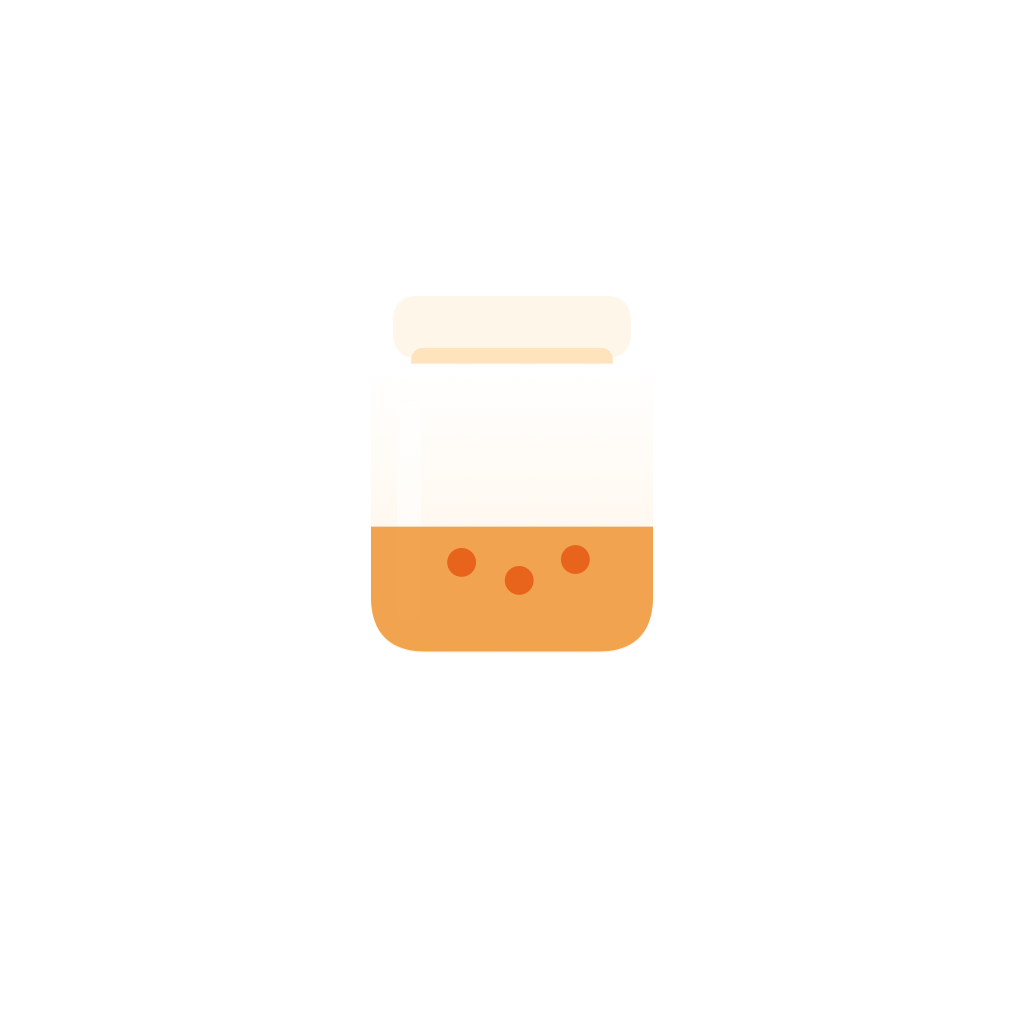
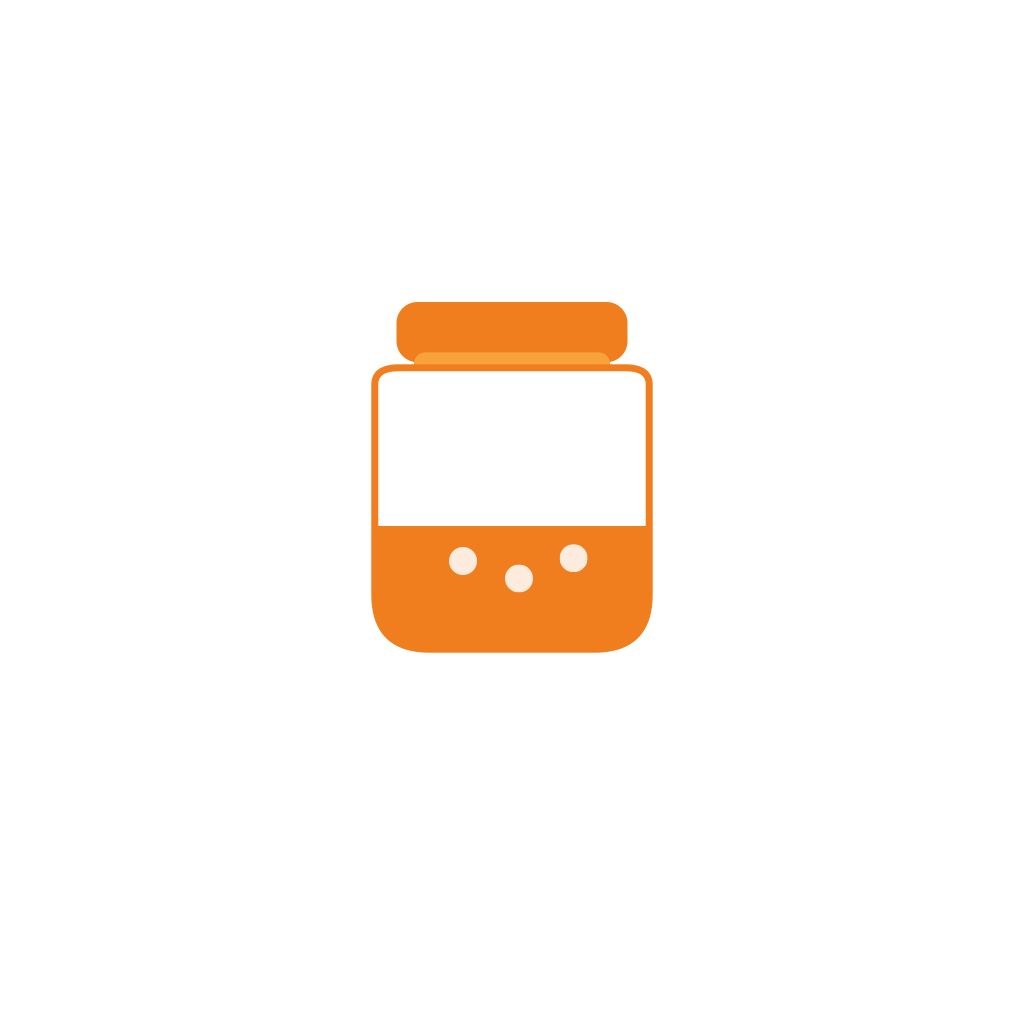
Fix crash Android (play-services-auth) + icona sfondo scuro
Causa crash all'avvio (riprodotto in emulatore): NoClassDefFoundError su
GoogleSignIn perché il plugin includeva play-services-auth solo con
rgcfaIncludeGoogle=true (ora impostato in android/variables.gradle).
Icona ridisegnata: sfondo scuro + barattolo arancione (ben visibile).
Config nativa documentata in CAPACITOR.md (le cartelle android/ios sono gitignored).

Changed region(s): [[0.3438, 0.2812, 0.6562, 0.6562]]

diff --git a/CAPACITOR.md b/CAPACITOR.md
@@ -58,6 +58,23 @@ Poi **scarica `google-services.json`** e mettilo in `android/app/google-services
 Poi **scarica `GoogleService-Info.plist`** e, in Xcode, trascinalo dentro
 `ios/App/App/` (spunta *Copy items if needed*).
 
+## ⚠ CONFIG NATIVA GIÀ APPLICATA (se rigeneri android/ ios/, riapplicala!)
+
+Queste modifiche sono in `android/` e `ios/` (che sono in `.gitignore`). Se
+cancelli/rigeneri le cartelle native, vanno rifatte o l'app **crasha**:
+
+- **`android/variables.gradle`** → dentro `ext { }` aggiungi:
+  ```gradle
+  rgcfaIncludeGoogle = true
+  ```
+  Senza questa riga il plugin NON include `play-services-auth` e l'app crasha
+  all'avvio con `NoClassDefFoundError: ...GoogleSignIn`.
+- **`android/app/google-services.json`** → scaricato da Firebase (con SHA-1 registrato).
+- **`ios/App/App/AppDelegate.swift`** → `import FirebaseCore` + `FirebaseApp.configure()`
+  in `didFinishLaunchingWithOptions`.
+- **`ios/App/App/Info.plist`** → URL scheme = `REVERSED_CLIENT_ID` del `GoogleService-Info.plist`.
+- **`ios/App/App/GoogleService-Info.plist`** → scaricato da Firebase, aggiunto al target App in Xcode.
+
 ## 3. ⚠ Login Google in app nativa (importante)
 
 Nel **browser** l'accesso funziona con il popup (`signInWithPopup`, già
